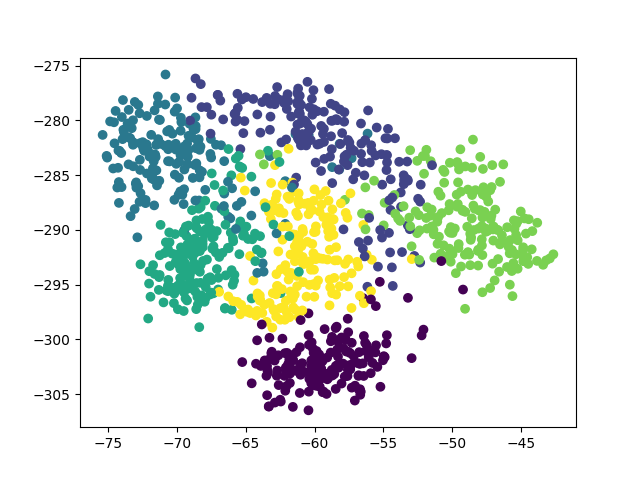
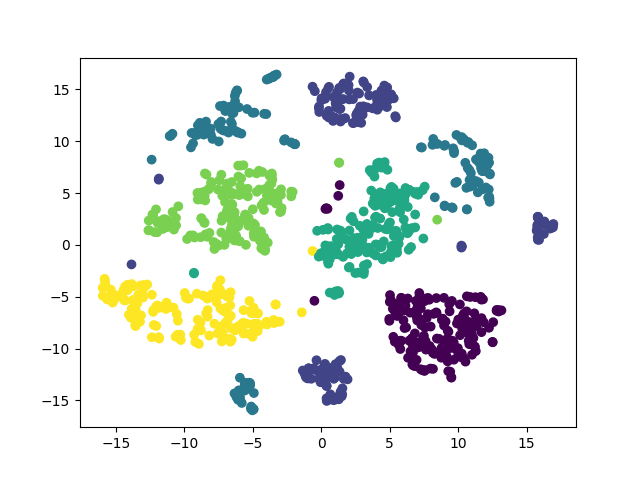
add a regulization and it is useless

diff --git a/model/model_tsne_nn.py b/model/model_tsne_nn.py
@@ -11,7 +11,7 @@ import numpy as np
 
 
 class TSNE_NN(nn.Module):
-    def __init__(self, data, device, args , n_dim=2,):
+    def __init__(self, data, device, args, n_dim=2,):
         self.decive = device
         self.n_points = data.shape[0]
         self.n_dim = n_dim
@@ -22,9 +22,9 @@ class TSNE_NN(nn.Module):
         self.pij = self.CalPij(self.data).float().to(self.decive)
         # self.pij = self.x2p_torch(self.data).to(self.decive)
         self.pij[self.pij < 1e-16] = 1e-16
-
+        self.r = 0
         # self.output = torch.nn.Parameter(torch.randn(self.n_points, n_dim))
-        self.NetworkStructure = [64, 500, 250, 100, 2]
+        self.NetworkStructure = [64, 1000, 2]
         self.network = nn.ModuleList()
         for i in range(len(self.NetworkStructure)-1):
             self.network.append(
@@ -35,6 +35,10 @@ class TSNE_NN(nn.Module):
                 self.network.append(
                     nn.LeakyReLU(0.1)
                 )
+                # self.network.append(
+                #     nn.Dropout(0.1)
+                # )
+
         # input(self.network)
 
     def Distance_squared(self, data1, data2, ):
@@ -58,7 +62,7 @@ class TSNE_NN(nn.Module):
 
     def CalPij(self, X, perplexity=30.0):
         perplexity = self.perplexity
-        
+
         dis_squared = pairwise_distances(
             X.detach().cpu().numpy(),  metric='euclidean', squared=True)
 
@@ -66,14 +70,42 @@ class TSNE_NN(nn.Module):
             dis_squared, perplexity, False)
         return torch.tensor(squareform(pij))
 
+    def CossimiSlow(self, data):
+
+        # print(self.out)
+        eps = 1e-8
+        a_n, b_n = data.norm(dim=1)[:, None], data.norm(dim=1)[:, None]
+        a_norm = data / torch.max(a_n, eps * torch.ones_like(a_n))
+        b_norm = data / torch.max(b_n, eps * torch.ones_like(b_n))
+        out = torch.mm(a_norm, b_norm.transpose(0, 1))[
+            torch.eye(a_norm.shape[0]) == 0
+        ]
+
+        return out.abs().mean()
+
+    def PL(self, weigh_list):
+        i = 0
+        for weight in weigh_list:
+            if i == 0:
+                loss = self.CossimiSlow(weight)
+            else:
+                loss += self.CossimiSlow(weight)
+            i += 1
+        return loss
+
     def forward(self, sample_index_i, sample_index_j):
 
         input_1 = self.data.float()
 
+        weigh_list = []
         input_c_1 = input_1
         for i, layer in enumerate(self.network):
             output_c_1 = layer(input_c_1)
             input_c_1 = output_c_1
+            try:
+                weigh_list.append(layer.weight)
+            except:
+                pass
 
         dis = self.Distance_squared(output_c_1, output_c_1)
         qij_top = 1/(1+dis)
@@ -83,10 +115,14 @@ class TSNE_NN(nn.Module):
         )
         qij = qij_top / sum_m
         qij = torch.max(qij, torch.tensor([1e-36], device=self.decive))
-
         pij = self.pij
+
         loss_kld = pij * (torch.log(pij) - torch.log(qij))
-        return loss_kld.sum()
+        loss_pl = self.PL(weigh_list)
+        # print('loss', loss_kld.sum(), loss_pl*self.r)
+        # input()
+
+        return loss_kld.sum() + loss_pl*self.r
 
     def __call__(self, *args):
         return self.forward(*args)

diff --git a/main.py b/main.py
@@ -86,11 +86,11 @@ def GetParam():
 
     parser.add_argument('--batch_size', type=int, default=10000, metavar='N',)
     parser.add_argument('--epochs', type=int, default=30000, metavar='N')
-    parser.add_argument('--lr', type=float, default=10.00, metavar='LR',)
+    parser.add_argument('--lr', type=float, default=0.1, metavar='LR',)
     parser.add_argument('--gamma', type=float, default=0.7, metavar='M',)
     parser.add_argument('--no-cuda', action='store_true', default=False,)
     parser.add_argument('--seed', type=int, default=1, metavar='S',)
-    parser.add_argument('--log_interval', type=int, default=10, metavar='N',)
+    parser.add_argument('--log_interval', type=int, default=100, metavar='N',)
     parser.add_argument('--save-model', action='store_true', default=False,)
     args = parser.parse_args()
 
@@ -110,16 +110,20 @@ def main():
     Model = model_tsne_nn.TSNE_NN(data_train, device=device, args=args).to(device)
     # Model = model_tsne.TSNE(data_train, device=device, args=args).to(device)
     Loss = None  # model.TSNE_LOSS().to(device)
-    optimizer = optim.Adadelta(Model.parameters(), lr=args.lr)
+    optimizer = optim.SGD(Model.parameters(), lr=args.lr)
 
     for epoch in range(1, args.epochs + 1):
         train(args, Model, Loss, device, data_train,
               label_train, optimizer, epoch)
         # test(args, Model, Loss, device, loader_test)
+        if epoch == 700:
+            Model.r =1
+        if epoch == 1400:
+            Model.r =2
         if epoch % args.log_interval == 0:
             em = Model.GetEmbedding()
             plt.scatter(em[:, 0], em[:, 1], c=label_train.detach().cpu())
-            plt.savefig('pic/tsne.png')
+            plt.savefig('pic/tsnenn.png')
             plt.close()
 
 
